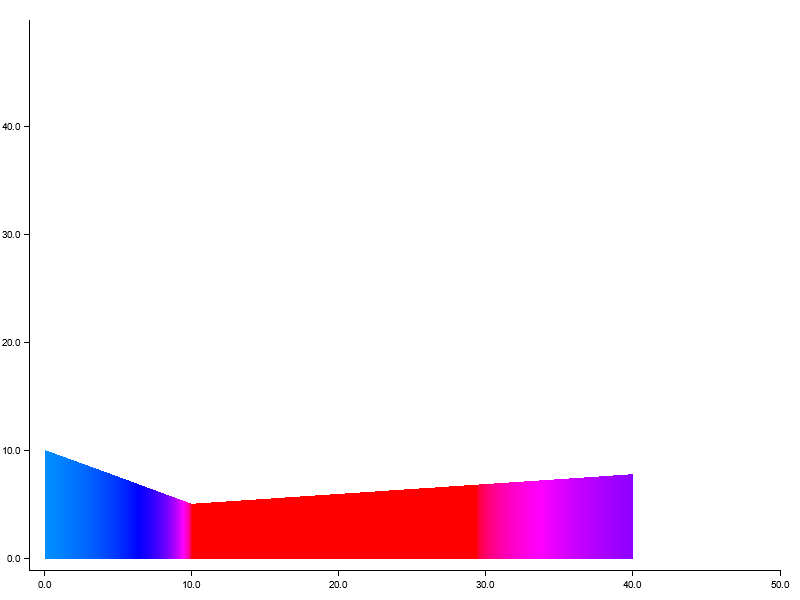
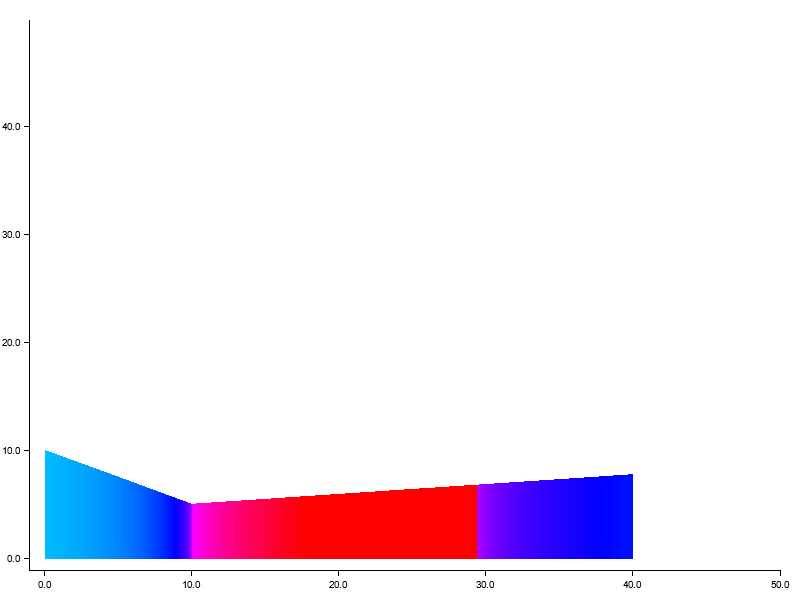
色合いを調整

Changed region(s): [[0.0312, 0.75, 0.375, 0.93], [0.5938, 0.78, 0.8125, 0.93]]

diff --git a/src/main.rs b/src/main.rs
@@ -356,7 +356,7 @@ fn main() -> Result<(), Box<std::error::Error>>{
     for q in quans {
         let mut r = 0.0;
         while r < ( q.rx * 1000.0 ) {
-            plotarea.draw_pixel((q.x * 1000.0, r), &HSLColor( 0.50 +0.5*q.Mx, 1.0, 0.5));
+            plotarea.draw_pixel((q.x * 1000.0, r), &HSLColor( 0.50 +0.3*q.Mx, 1.0, 0.5));
             r += 0.001;
         }
     }
